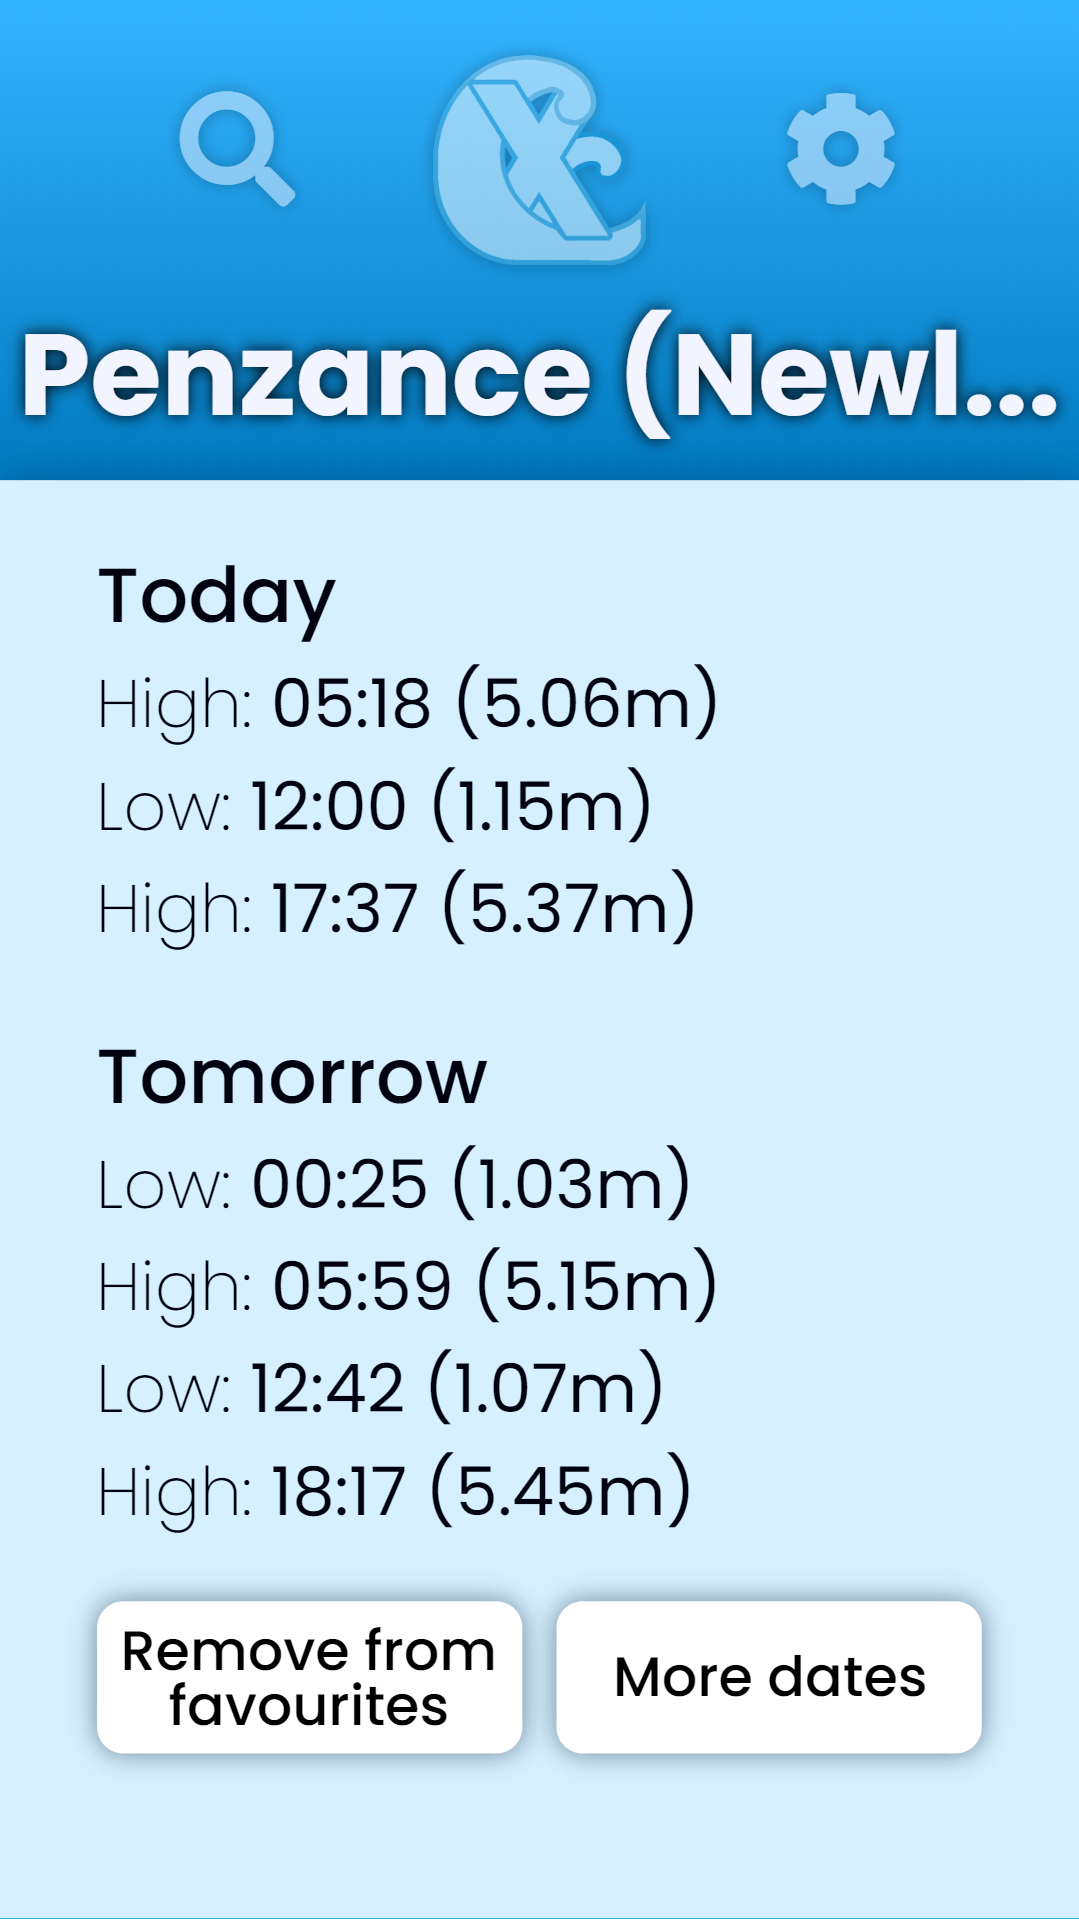
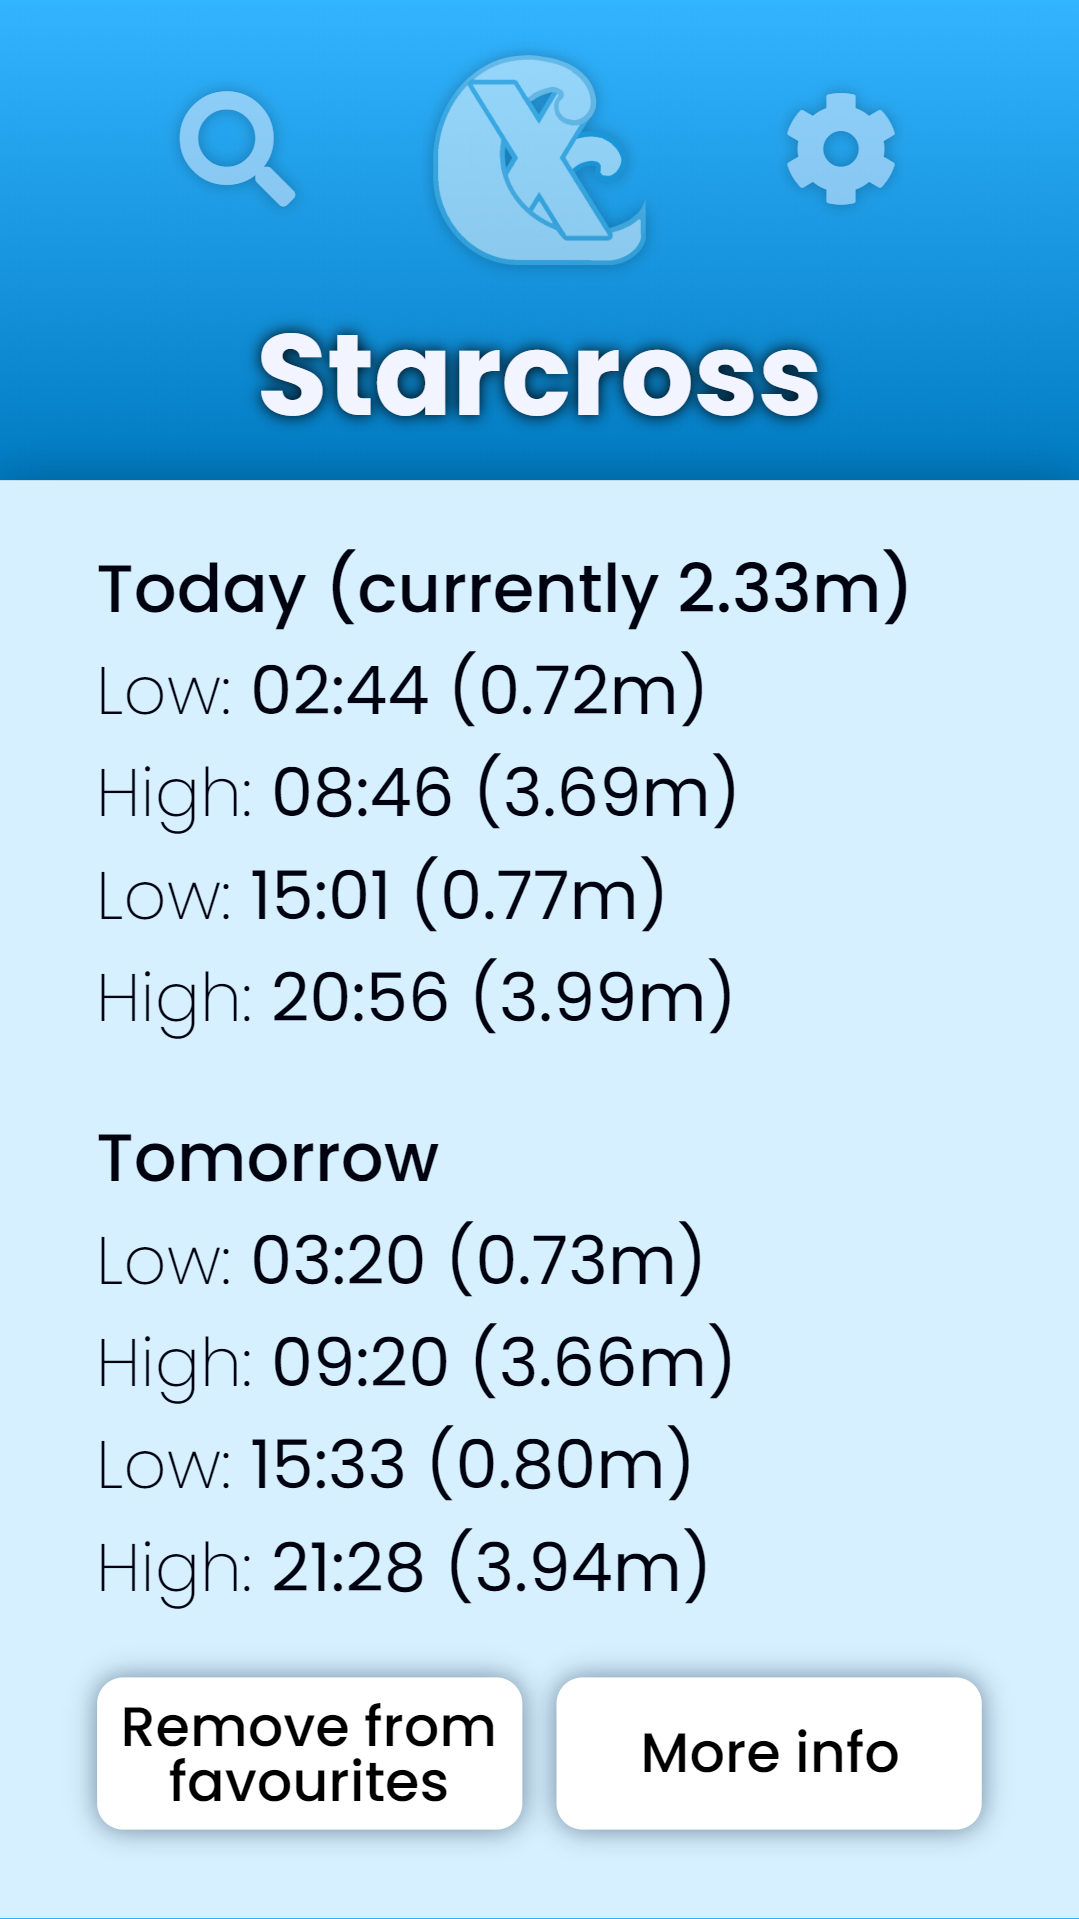
Added "more info" with future tides and moon phase

Changed region(s): [[0.0612, 0.2767, 0.9175, 0.9838], [0.0, 0.1537, 0.9787, 0.246]]

diff --git a/script.js b/script.js
@@ -1,5 +1,28 @@
 var favouritesHTML = '<div class="favourite" id="favourite-{shortLocationName}" onclick="loadLocationTab(\'{shortLocationName}\')"><span>{locationName}</span><table><tr class="times"><td><img src="images/loading.gif"></td><td><img src="images/loading.gif"></td></tr><tr class="names"><td>Next High</td><td>Next Low</td></tr></table></div>';
 var innerFavouritesHTML = '<span>{locationName}</span><table><tr class="times"><td>{next1}</td><td>{next2}</td></tr><tr class="names"><td>Next {1}</td><td>Next {2}</td></tr></table>';
+var months = [
+  "January",
+  "February",
+  "March",
+  "April",
+  "May",
+  "June",
+  "July",
+  "August",
+  "September",
+  "October",
+  "November",
+  "December"
+]
+var days = [
+  "Monday",
+  "Tuesday",
+  "Wednesday",
+  "Thursday",
+  "Friday",
+  "Saturday",
+  "Sunday"
+]
 
 var initialHeight;
 function setup() {
@@ -20,6 +43,8 @@ function getTideTimes(location,mode="today") {
     var tomorrowDate = new Date();
     tomorrowDate.setDate(tomorrowDate.getDate()+1);
     extraURLData = "-" + tomorrowDate.getFullYear().toString() + (tomorrowDate.getMonth()+1).toString().padStart(2,"0") + tomorrowDate.getDate().toString().padStart(2,"0");
+  } else if (mode != "today" && mode != "favouritesPage") {
+    extraURLData = "-"+mode;
   }
   $.get("https://cors-anywhere.herokuapp.com/"+sources[location].url+extraURLData, function(data) {
     console.log(((new Date() - timeBeforeRequest)/1000)+"s for request");
@@ -51,9 +76,9 @@ function getTideTimes(location,mode="today") {
     );
 
     // parse date data from html on page
-    var rawTides = data.match(/\d{2}:\d{2}/g) // high, low, high, low
-    rawTides = rawTides.slice(0,rawTides.length-1);
-    var heights = data.match(/\d\.\d{2}m/g).slice(0,4) // high, low, high, low
+    var rawTides = data.match(/\d{2}:\d{2}<\/span>/g) // high, low, high, low
+    rawTides.forEach(function(tide,index) { rawTides[index] = tide.replace("</span>","") });
+    var heights = data.match(/\d\.\d{2}m/g).slice(0,rawTides.length) // high, low, high, low
 
     console.log(rawTides);
     console.log(heights);
@@ -77,7 +102,7 @@ function getTideTimes(location,mode="today") {
           .replace("{1}","High")
           .replace("{2}","Low");
       }
-    } else {
+    } else if (mode == "today" || mode == "tomorrow") {
       var firstTide = "High";
       if (parseInt(heights[0].slice(0,4)) < parseInt(heights[1].slice(0,4))) {
         firstTide = "Low";
@@ -133,6 +158,20 @@ function getTideTimes(location,mode="today") {
 
         document.getElementById("currentHeight").innerHTML = (Math.round(estimatedHeight*100)/100).toString() + "m";
       }
+    } else {
+      var firstTide = "High";
+      if (parseInt(heights[0].slice(0,4)) < parseInt(heights[1].slice(0,4))) {
+        firstTide = "Low";
+      }
+      var actualDate = new Date(mode.slice(0,4),parseInt(mode.slice(4,6))-1,mode.slice(6,8));
+      var formattedDate = days[actualDate.getDay()] + " " + actualDate.getDate().toString() + " " + months[actualDate.getMonth()];
+      var outputHTML = "<span dateForSort='"+mode+"'>"+formattedDate+"</span><div class='detailedTides'>";
+      for (let i = 0; i < rawTides.length; i++) {
+        outputHTML += firstTide + ": <span>" + rawTides[i] + " (" + heights[i] + ")</span><br>";
+        if (firstTide == "High") { firstTide = "Low" } else { firstTide = "High" }
+      }
+      extraDatesHTML.push(outputHTML+"</div>");
+      showExtraDates();
     }
   });
 }
@@ -151,6 +190,9 @@ function changeTab(tab) {
     shownLocation = "";
     document.getElementById("currentHeight").innerHTML = "<img src='images/loading.gif'>";
     document.getElementById(tab+"TabButton").className += " selectedTab";
+    document.getElementById("mainLocationInfo").className = "subTab subTabActive";
+    document.getElementById("extraLocationInfo").className = "subTab";
+    document.getElementById("extraDates").innerHTML = '<img src="images/loading.gif" style="height:10vh;">';
     if (tab != "home") {
       document.getElementById("titleBar").innerHTML = tab;
     } else {
@@ -260,4 +302,36 @@ function changeSetting(setting) {
   if (setting == "sort") {
     showFavouriteLocations();
   }
+}
+
+var extraDatesHTML = [];
+
+function toggleSubTab(tab) {
+  if (tab == "extra") {
+    document.getElementById("mainLocationInfo").className = "subTab";
+    document.getElementById("extraLocationInfo").className = "subTab subTabActive";
+    var currentDate = new Date();
+    currentDate.setDate(currentDate.getDate()+1);
+    for (let i = 0; i < 5; i++) {
+      currentDate.setDate(currentDate.getDate()+1);
+      var dateString = currentDate.getFullYear().toString() + (currentDate.getMonth()+1).toString().padStart(2,"0") + currentDate.getDate().toString().padStart(2,"0");
+      console.log(dateString);
+      getTideTimes(shownLocation,dateString);
+    }
+    currentDate = new Date();
+    var mPhase = moonPhase(parseInt(currentDate.getDate()),parseInt(currentDate.getMonth())+1,parseInt(currentDate.getFullYear()));
+    document.getElementById("moonInfo").innerHTML = "<span>Moon Phase:</span><br><img src='images/moon/"+mPhase.toString()+".svg'> "+moonPhases[mPhase];
+  } else {
+    document.getElementById("mainLocationInfo").className = "subTab subTabActive";
+    document.getElementById("extraLocationInfo").className = "subTab";
+    document.getElementById("extraDates").innerHTML = '<img src="images/loading.gif" style="height:10vh;">';
+  }
+}
+
+function showExtraDates() {
+  if (extraDatesHTML.length == 5) {
+    extraDatesHTML.sort();
+    document.getElementById("extraDates").innerHTML = extraDatesHTML.join("");
+    extraDatesHTML = [];
+  } 
 }

diff --git a/data/moonPhase.js b/data/moonPhase.js
@@ -1,0 +1,148 @@
+// The moonPhase function is a slight modification of https://gist.github.com/L-A/3497902 by Louis-André Labadie
+// I have no idea how lunar physics works so I just reformatted it and got rid of the bits that I don't need
+// Louis-André, if you ever see this, your variable naming is horrific but the comments make up for it
+
+var moonPhases = [
+  "New Moon",
+  "Waxing Crescent",
+  "First Quarter",
+  "Waxing Gibbous",
+  "Full Moon",
+  "Waning Gibbous",
+  "Last Quarter",
+  "Waning Crescent"
+];
+
+function moonPhase(day, month, year) {
+  var n0 = parseInt("0");
+  var f0 = parseFloat("0.0");
+  var AG = f0;   // Moon's age
+  var DI = f0;   // Moon's distance in earth radii
+  var LA = f0;   // Moon's ecliptic latitude
+  var LO = f0;   // Moon's ecliptic longitude
+  var Phase = parseInt(0);
+  var Zodiac = " ";
+
+  // Related to month length and age calculations
+  var n28 = parseInt("28");
+  var n30 = parseInt("30");
+  var n31 = parseInt("31");
+  var dim = new Array(n31, n28, n31, n30, n31, n30, n31, n31, n30, n31, n30, n31);
+
+  day = parseInt(day, 10);
+  month = parseInt(month, 10);
+  year = parseInt(year, 10);
+
+  moon_posit(year, month, day);
+
+  this.age = round2(AG);
+  this.distance = round2(DI);
+  this.phase = Phase;
+  this.latitude = round2(LA);
+  this.longitude = round2(LO);
+  this.zodiac = Zodiac;
+
+  function isdayofmonth(y, m, d) {
+    if (m != 2) {
+      if (1 <= d && d <= dim[m - 1]) {
+        return true;
+      } else {
+        return false;
+      };
+    }
+
+    var feb = dim[1];
+    if (isleapyear(y)) feb += 1;                                   // is leap year
+    if (1 <= d && d <= feb) return true;
+    return false;
+  }
+
+  function isleapyear(y) {
+    var x = Math.floor(y - 4 * Math.floor(y / 4));
+    var w = Math.floor(y - 100 * Math.floor(y / 100));
+    var z = Math.floor(y - 400 * Math.floor(y / 400));
+
+    if (x == 0) {                           // possible leap year
+      if (w == 0 && z != 0) {
+        return false;                  // not leap year
+      } else {
+        return true;                   // is leap year
+      };
+    }
+
+    return false;
+  }
+
+  // compute moon position and phase
+  function moon_posit(Y, M, D) {
+    var YY = n0,
+      MM = n0,
+      K1 = n0,
+      K2 = n0,
+      K3 = n0,
+      JD = n0,
+      IP = f0,
+      DP = f0,
+      NP = f0,
+      RP = f0;
+
+    // calculate the Julian date at 12h UT
+    YY = Y - Math.floor((12 - M) / 10);
+    MM = M + 9;
+    if (MM >= 12) MM = MM - 12;
+
+    K1 = Math.floor(365.25 * (YY + 4712));
+    K2 = Math.floor(30.6 * MM + 0.5);
+    K3 = Math.floor(Math.floor((YY / 100) + 49) * 0.75) - 38;
+
+    JD = K1 + K2 + D + 59;                  // for dates in Julian calendar
+    if (JD > 2299160) JD = JD - K3;        // for Gregorian calendar
+
+    // calculate moon's age in days
+    IP = normalize((JD - 2451550.1) / 29.530588853);
+    AG = IP * 29.53;
+
+    if (AG < 1.84566) Phase = 0;
+    else if (AG < 5.53699) Phase = 1;
+    else if (AG < 9.22831) Phase = 2;
+    else if (AG < 12.91963) Phase = 3;
+    else if (AG < 16.61096) Phase = 4;
+    else if (AG < 20.30228) Phase = 5;
+    else if (AG < 23.99361) Phase = 6;
+    else if (AG < 27.68493) Phase = 7;
+    else Phase = 0;
+
+    IP = IP * 2 * Math.PI;                      // Convert phase to radians
+
+    // calculate moon's distance
+    DP = 2 * Math.PI * normalize((JD - 2451562.2) / 27.55454988);
+    DI = 60.4 - 3.3 * Math.cos(DP) - 0.6 * Math.cos(2 * IP - DP) - 0.5 * Math.cos(2 * IP);
+
+    // calculate moon's ecliptic latitude
+    NP = 2 * Math.PI * normalize((JD - 2451565.2) / 27.212220817);
+    LA = 5.1 * Math.sin(NP);
+
+    // calculate moon's ecliptic longitude
+    RP = normalize((JD - 2451555.8) / 27.321582241);
+    LO = 360 * RP + 6.3 * Math.sin(DP) + 1.3 * Math.sin(2 * IP - DP) + 0.7 * Math.sin(2 * IP);
+
+    // correcting if longitude is not greater than 360!
+    if (LO > 360) LO = LO - 360;
+  }
+
+  // round to 2 decimal places
+  function round2(x) {
+    return (Math.round(100 * x) / 100.0);
+  }
+
+  // normalize values to range 0...1    
+  function normalize(v) {
+    v = v - Math.floor(v);
+    if (v < 0)
+      v = v + 1;
+    return v;
+  }
+
+  console.log(day,month,year);
+  return Phase;
+};

diff --git a/index.html b/index.html
@@ -3,9 +3,12 @@
 <head>
   <title>TidesX</title>
   <link rel="stylesheet" href="style.css">
+
   <link href="https://cdnjs.cloudflare.com/ajax/libs/font-awesome/5.11.2/css/all.min.css" rel="stylesheet">
   <script src="https://ajax.googleapis.com/ajax/libs/jquery/3.5.1/jquery.min.js"></script>
+
   <script src="data/sources.js"></script>
+  <script src="data/moonPhase.js"></script>
   <script src="script.js"></script>
 
   <meta name="viewport" content="width=device-width, initial-scale=1.0, maximum-scale=1.0, user-scalable=0">
@@ -16,7 +19,6 @@
   <meta name="application-name" content="TidesX">
 	<meta name="apple-mobile-web-app-title" content="TidesX">
 	<meta name="msapplication-starturl" content="/">
-	<script>(function(a,b,c){if(c in b&&b[c]){var d,e=a.location,f=/^(a|html)$/i;a.addEventListener("click",function(a){d=a.target;while(!f.test(d.nodeName))d=d.parentNode;"href"in d&&(d.href.indexOf("http")||~d.href.indexOf(e.host))&&(a.preventDefault(),e.href=d.href)},!1)}})(document,window.navigator,"standalone")</script>
 </head>
 
 <body onload="showFavouriteLocations();setup();">
@@ -72,17 +74,32 @@
     </div>
 
     <div class="tab" id="locationTab">
-      <span>Today (currently <span id="currentHeight"><img src="images/loading.gif"></span>)</span>
-      <div id="todayTides" class="detailedTides">
-        <img src="images/loading.gif">
-      </div>
-      <span>Tomorrow</span>
-      <div id="tomorrowTides" class="detailedTides">
-        <img src="images/loading.gif">
+      <div class="subTab subTabActive" id="mainLocationInfo">
+        <span>Today (currently <span id="currentHeight"><img src="images/loading.gif"></span>)</span>
+        <div id="todayTides" class="detailedTides">
+          <img src="images/loading.gif">
+        </div>
+        <span>Tomorrow</span>
+        <div id="tomorrowTides" class="detailedTides">
+          <img src="images/loading.gif">
+        </div>
+
+        <button style="float:left;" id="favouritesButton" onclick="updateFavourites();">Add to favourites</button>
+        <button style="float:right;" onclick="toggleSubTab('extra');">More info</button>
       </div>
 
-      <button style="float:left;" id="favouritesButton" onclick="updateFavourites();">Add to favourites</button>
-      <button style="float:right;" onclick="alert('This feature is in development.');">More dates</button>
+      <div class="subTab" id="extraLocationInfo">
+        <div id="moonInfo">
+          <span>Moon Phase:</span><br>
+          <img src="images/moon/0.svg"> Moon Phase
+        </div>
+        <hr>
+        <div id="extraDates">
+          <img src="images/loading.gif" style="height:10vh;">
+        </div>
+
+        <button style="float:right;" onclick="toggleSubTab('main');">Back</button>
+      </div>
     </div>
   </div>
 </body>

diff --git a/style.css b/style.css
@@ -163,6 +163,28 @@ body {
   height: 3vh;
 }
 
+.subTab {
+  width: 100%;
+  display: none;
+}
+
+.subTabActive {
+  display: block;
+}
+
+#moonInfo {
+  font-size: 4vh;
+  font-weight: 200;
+  margin-bottom: 2vh;
+}
+
+#moonInfo img {
+  height: 7vh;
+  vertical-align: middle;
+  margin-right: 2.5vw;
+  filter: drop-shadow(0px 0px 5px rgba(0%,10%,20%,50%));
+}
+
 
 
 /* SEARCH PAGE CSS */

diff --git a/README.md b/README.md
@@ -16,4 +16,5 @@ TidesX is available on GitHub Pages, where you need to install it as a web app. 
 <img src="images/screenshots/homepage.png" width=400>
 <img src="images/screenshots/search.png" width=400>
 <img src="images/screenshots/detail.png" width=400>
+<img src="images/screenshots/moreinfo.png" width=400>
 <img src="images/screenshots/settings.png" width=400>
